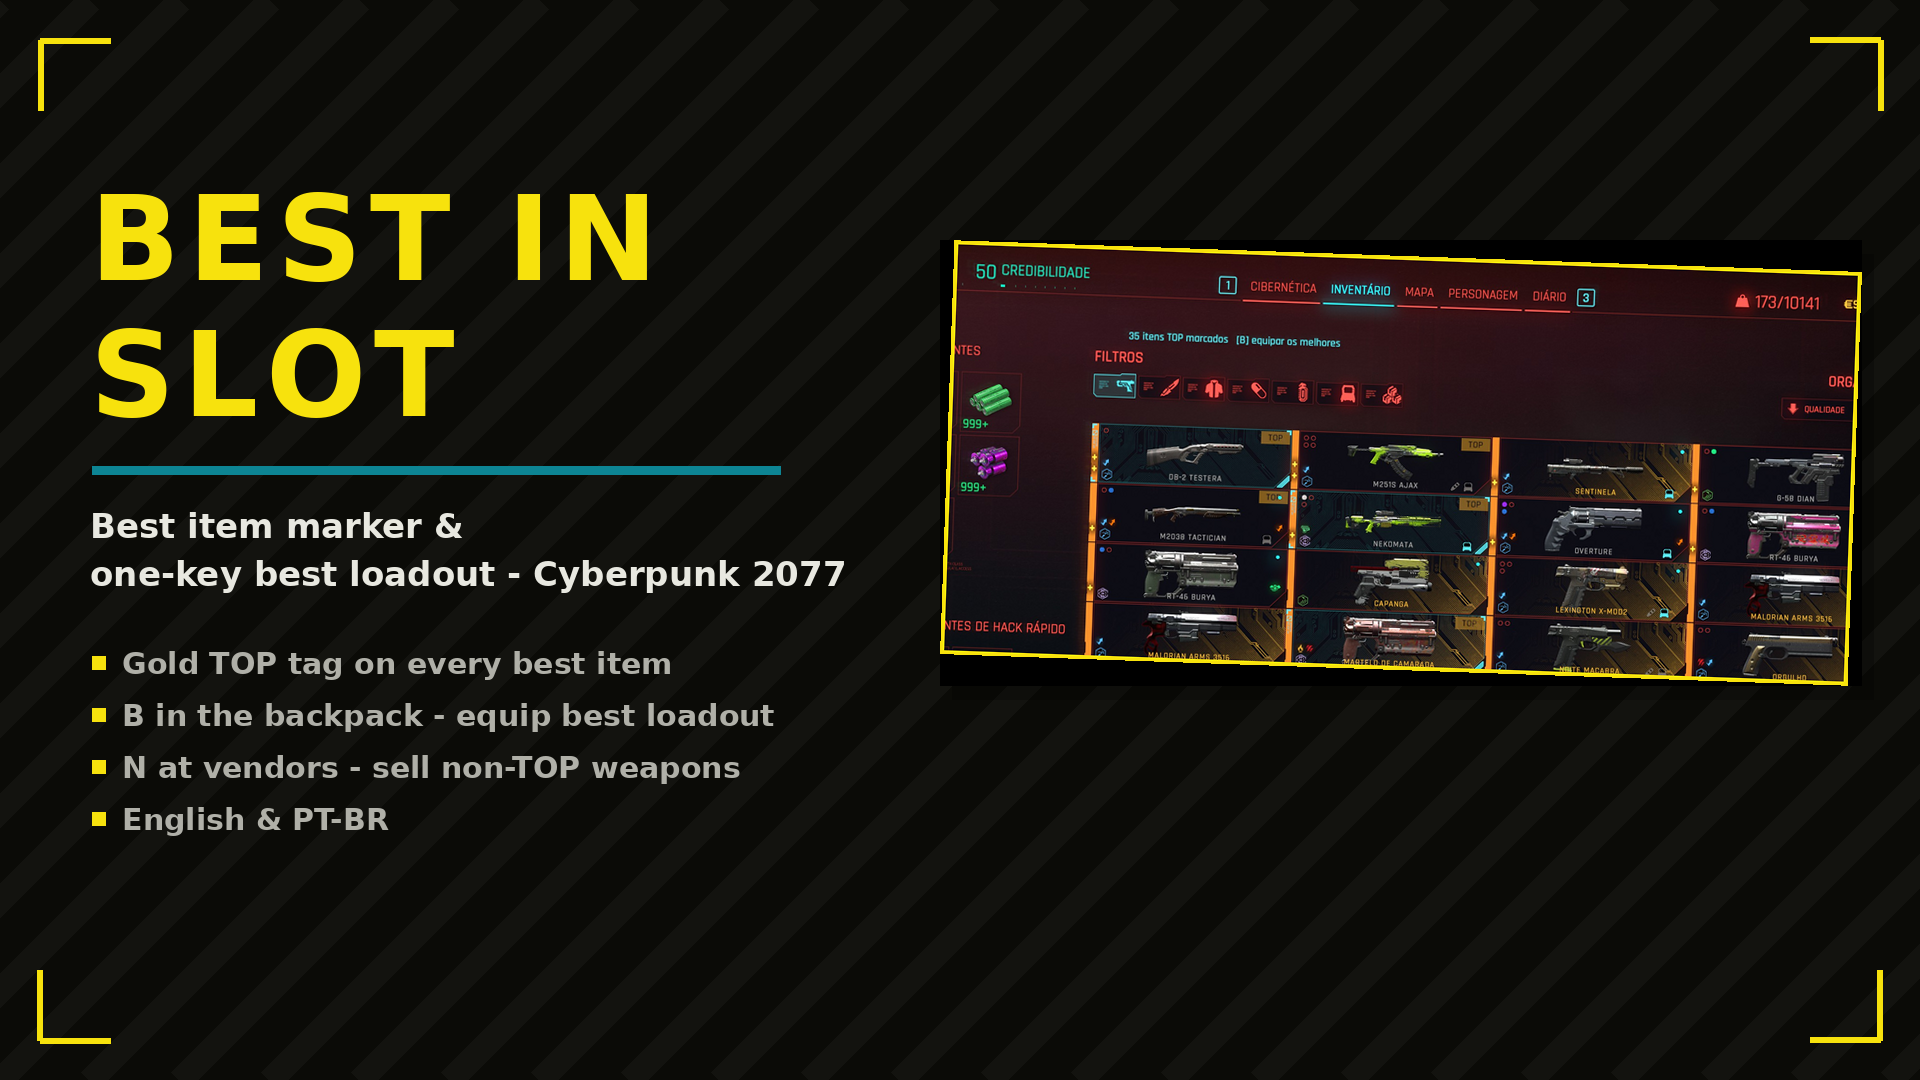
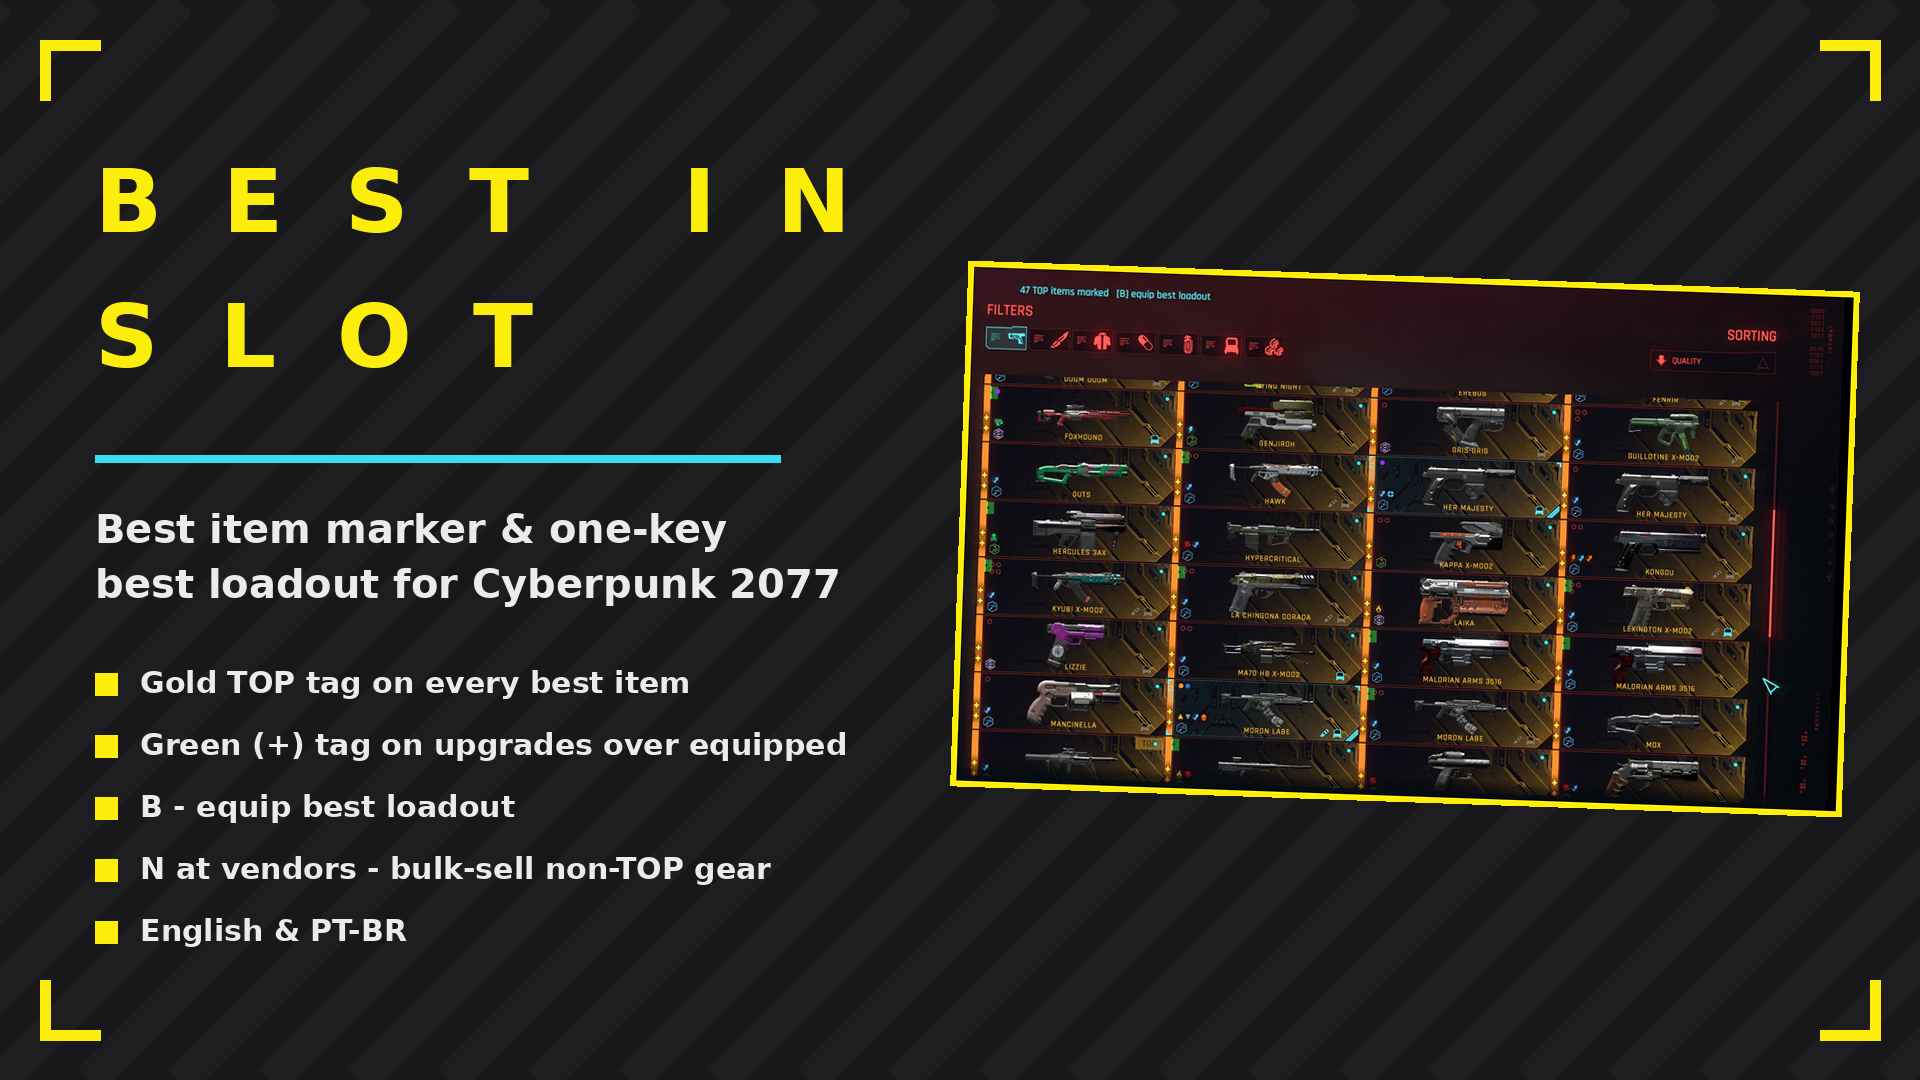
BestInSlot 1.3.0: upgrade badge, clothes bulk-sell, inventory hotkey, new cover

Changed region(s): [[0.0, 0.0, 1.0, 1.0]]

diff --git a/CyberPunk/BestInSlot/README.md b/CyberPunk/BestInSlot/README.md
@@ -4,16 +4,21 @@
 
 ![cover](screenshots/cover.png)
 
-Gold TOP tag on the best item of every category across all item screens. B equips the best loadout; N sells every non-TOP weapon.
+Gold TOP tag on the best item of every category across all item screens. B equips the best loadout; N sells non-TOP weapons and clothes.
 
 ## ✨ Features
 - Gold TOP tag on every best item
-- B in the backpack - equip best loadout
-- N at vendors - sell non-TOP weapons
+- Green (+) tag on items better than what you have equipped
+- B in the backpack or inventory - equip best loadout
+- N at vendors - sell non-TOP weapons and clothes
+- Options in the Mod Settings menu (optional dependency)
 - English & PT-BR, following the game language
 
 ## 📸 Screenshots
-![screenshot](screenshots/screenshot-top-mochila.jpg)
+![screenshot](screenshots/backpack-weapons.jpg)
+![screenshot](screenshots/backpack-clothes.jpg)
+![screenshot](screenshots/inventory-equip-best.jpg)
+![screenshot](screenshots/mod-settings.jpg)
 
 ## 🌍 Translating
 Texts live in `Localization.reds`. To add a language, copy a package class, translate the
